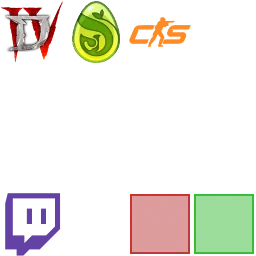
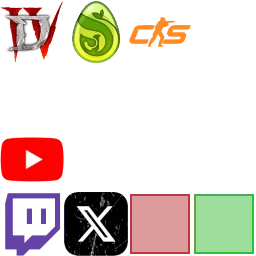
update website

diff --git a/app/index.html b/app/index.html
@@ -272,6 +272,7 @@
 						align-items: center;
 					}
 						.player-info {
+							text-align: center;
 							margin-top: 30%;
 							font-size: min(1.9vw, 1.12em);
 							padding: 4px 29% 4px 12%;
@@ -280,9 +281,30 @@
 							transition: opacity ease-out 240ms;
 							white-space: nowrap;
 						}
-						.center {
-							text-align: center;
+
+						.player-info > a {
+							display: inline-block;
+							width: min(4vw, 2.4em);
+							aspect-ratio: 1/1;
+							background-image: url('./tag.webp');
+							background-size: var(--tag-bg-size);
+							background-position:
+								calc(var(--x) * var(--tag-tile-coef))
+								calc(var(--y) * var(--tag-tile-coef));
 						}
+						.p-twitter {
+							--x: 1;
+							--y: 3;
+						}
+						.p-twitch {
+							--x: 0;
+							--y: 3;
+						}
+						.p-youtube {
+							--x: 0;
+							--y: 2;
+						}
+
 					.player:hover .player-info {
 						opacity: 1;
 					}
@@ -487,8 +509,13 @@
 			.preview:hover .pd { transform: translateX(140px); }
 			.preview:hover .pd::after {
 				transform: translateY(-100px) rotate(10deg) scale(1);
-			}
+		}
 
+			.asso {
+				text-align: center;
+				margin: 32px 0;
+				font-size: 1.4em;
+			}
 	</style>
 </head>
 <body>
@@ -517,10 +544,10 @@
 					<div class="player-picture-container">
 						<div class="player-picture" style="--bg:url(./players/PA.png)">
 							<div class="player-info">
-								<span class="bold">Age:</span> 24 ans <br>
-								<span class="bold">Role:</span> entry et co-lead <br>
-								<span class="bold">Heures de jeu:</span> 6500 <br>
-								</div>
+								<a href="https://twitter.com/arno3K" class="p-twitter"></a>
+								<a href="https://twitch.tv/arno3k" class="p-twitch"></a>
+								<a href="https://youtube.com/@manilefuret219" class="p-youtube"></a>
+							</div>
 						</div>
 					</div>
 					<span class="player-name"> Arno3K </span>
@@ -529,9 +556,9 @@
 					<div class="player-picture-container">
 						<div class="player-picture" style="--bg:url(./players/PB.png)">
 							<div class="player-info">
-								<span class="bold">Age:</span> 23 ans <br>
-								<span class="bold">Role:</span> --- <br>
-								<span class="bold">Heures de jeu:</span> --- <br>
+								<a href="https://twitter.com/ImVaal_" class="p-twitter"></a>
+								<a href="https://twitch.tv/imvaal_" class="p-twitch"></a>
+								<a href="https://youtube.com/@ImVaal" class="p-youtube"></a>
 							</div>
 						</div>
 					</div>
@@ -541,9 +568,6 @@
 					<div class="player-picture-container">
 						<div class="player-picture" style="--bg:url(./players/PC.png)">
 							<div class="player-info">
-								<span class="bold">Age:</span> 17 ans <br>
-								<span class="bold">Role:</span> --- <br>
-								<span class="bold">Heures de jeu:</span> --- <br>
 							</div>
 						</div>
 					</div>
@@ -553,9 +577,7 @@
 					<div class="player-picture-container">
 						<div class="player-picture" style="--bg:url(./players/PD.png)">
 							<div class="player-info">
-								<span class="bold">Age:</span> 29 ans <br>
-								<span class="bold">Role:</span> --- <br>
-								<span class="bold">Heures de jeu:</span> --- <br>
+								<a href="https://twitter.com/soencsgo" class="p-twitter"></a>
 							</div>
 						</div>
 					</div>
@@ -565,9 +587,7 @@
 					<div class="player-picture-container">
 						<div class="player-picture" style="--bg:url(./players/PE.png)">
 							<div class="player-info">
-								<span class="bold">Age:</span> 28 ans <br>
-								<span class="bold">Role:</span> --- <br>
-								<span class="bold">Heures de jeu:</span> --- <br>
+								<a href="https://twitter.com/Sye_Cs" class="p-twitter"></a>
 							</div>
 						</div>
 					</div>
@@ -707,6 +727,8 @@
 		Pour l'avenir, notre vision est de soutenir et de représenter des équipes de haut niveau. Sur le plan communautaire, nous souhaitons élargir notre présence dans le streaming et sur YouTube. Nous continuerons à organiser des événements, mais nous envisageons également des projets d'envergure pour les années à venir. 
 		<br><br>
 		Si vous cherchez une communauté soudée, active et en pleine croissance, nos portes vous sont ouvertes !
+
+		<p class="asso"> Aztec - Association sous loi 1901 </p>
 	</section>
 </body>
 </html>
